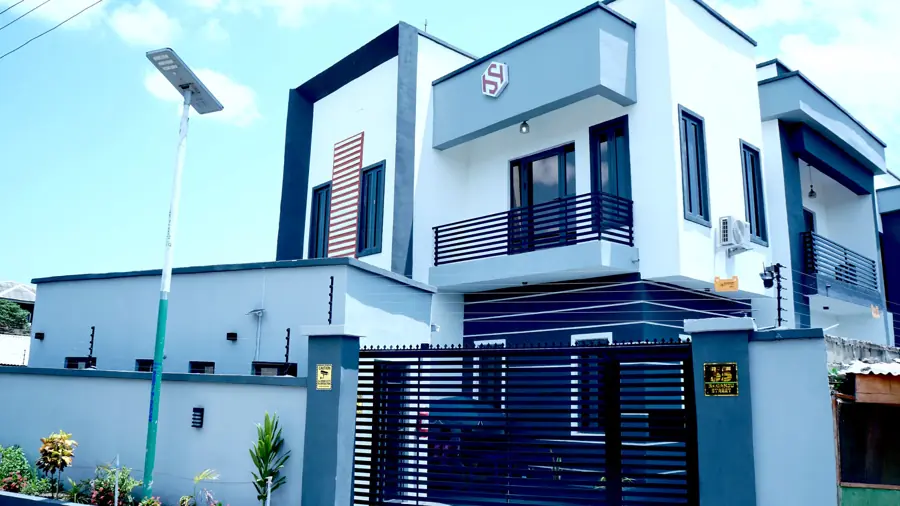
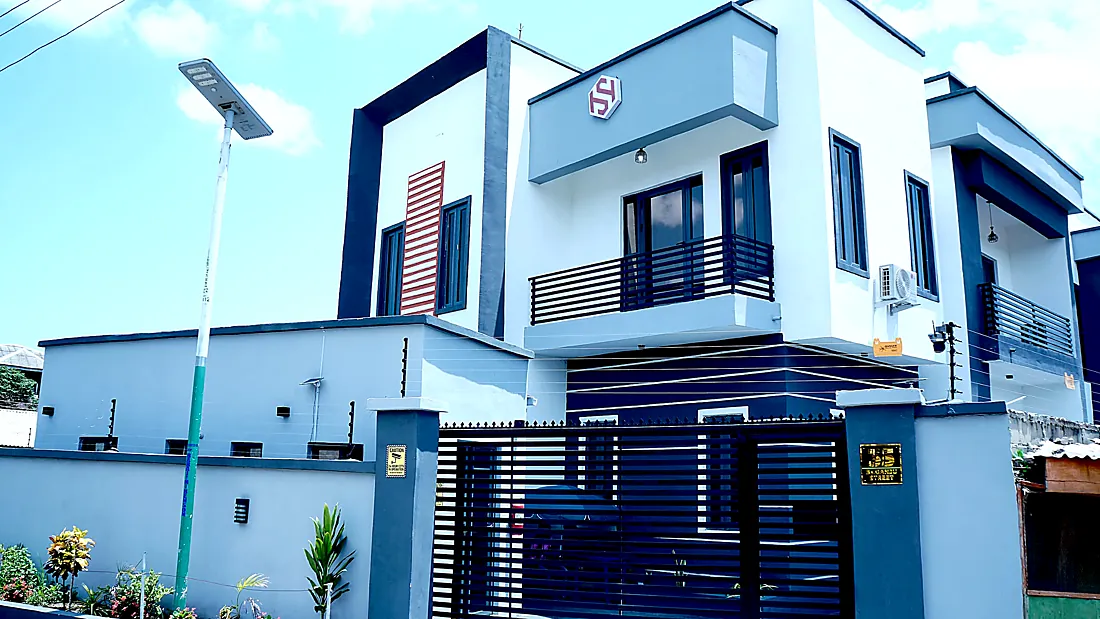
Hero: remove clipped text boxes, full letterforms, sharper cleaner photo
Claude-Session: https://claude.ai/code/session_019VPa11MoQqhrSh4RoYGJXp

diff --git a/css/styles.css b/css/styles.css
@@ -18,3 +18,11 @@
 .hero__vid{object-position:58% 0!important}
 .hero .d1{max-width:11ch}
 @media (max-width:760px){.hero__vid{object-position:36% 0!important}}
+
+/* hero headline: no clipped boxes, full descenders/ascenders */
+.hero .d1 .ln{overflow:visible;padding-bottom:0}
+.hero .d1 .ln.is-armed>span,.hero .d1 .ln>span{transform:none!important}
+.hero .d1{padding-left:.06em;text-shadow:0 2px 10px rgba(0,0,0,.35)}
+.hero .d1 em{text-shadow:0 2px 10px rgba(0,0,0,.35)}
+.hero__bg::after{background:linear-gradient(90deg,rgba(14,11,8,.5) 0%,rgba(14,11,8,.22) 45%,rgba(14,11,8,0) 75%),linear-gradient(180deg,rgba(20,16,12,0) 0%,rgba(20,16,12,.05) 35%,rgba(18,14,10,.45) 80%,rgba(14,11,8,.75) 100%)!important}
+@media (max-width:760px){.hero__bg::after{background:linear-gradient(180deg,rgba(14,11,8,.35) 0%,rgba(14,11,8,.42) 45%,rgba(14,11,8,.6) 80%,rgba(14,11,8,.8) 100%)!important}}
